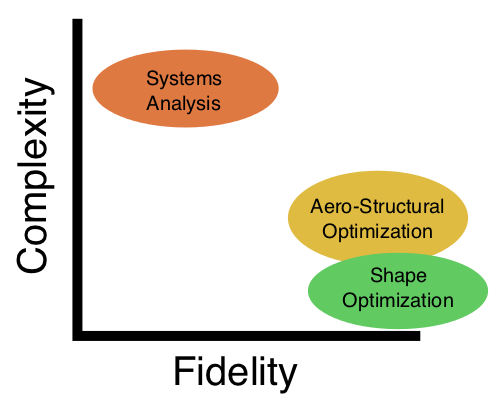
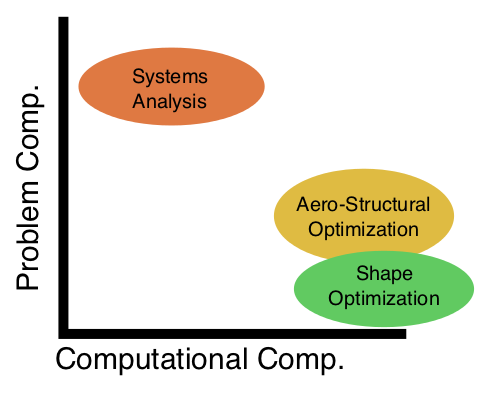
re-org

diff --git a/graph_framework.tex b/graph_framework.tex
@@ -86,21 +86,22 @@
     analytic derivatives for at the system level, even if each discipline could provide its own partial derivatives. So many
     problems are solved using a finite difference approach, which restricts the size of the design space.
 
-    If you placed complexity on the Y-axis and Fidelity on the X-axis, then the problem spectrum resemble the notional
-    cartoon in Figure \ref{fig:complexity_cartoon}. In this diagram, there is a gap between the lower and higher fidelity
-    type problems is indicative of the bifurcation in methods used to solve each type of problem currently. This gap begs the
-    question, ``How should you appraoch a problem of medium complexity and medium fidelity?'' We propose that the answer to this
-    dilemma is to develop a more general manner of implementing MDAO problems that can be applied to any problem across the entire
-    space of complexity and fidelity.
+    If you placed complexity of the problem formulation on the Y-axis and computational complexity on the X-axis, then 
+    the complexity spectrum resembles the cartoon in Figure \ref{fig:complexity_cartoon}. 
+    In this diagram, the gap along the 45 degree line between the axes is indicative of the bifurcation 
+    in methods used to solve each type of problem currently. This gap begs the
+    question, ``How should you appraoch a problem of medium complexity and medium fidelity?'' 
+    We propose that the answer to this dilemma is to develop a more general manner of 
+    implementing MDAO problems that can be applied to any problem across the entire complexity spectrum. 
 
     \begin{figure}[!hbt]\begin{center}
       \includegraphics[width=.5\textwidth]{images/complexity_cartoon}
-      \caption{ Notional spectrum of design problems currently being addressed. \label{fig:complexity_cartoon}}
+      \caption{ Notional spectrum of complexity in design problems currently being addressed. \label{fig:complexity_cartoon}}
     \end{center}\end{figure}
 
-    In this work we demonstrate how OpenMDAO, an open-source framework, such a general
-    solution to constructing and solving complex problems with large design spaces using the
-    same MDAO methods commonly applied to the the shape optimization and aero-structural optimization
+    In this work we demonstrate how OpenMDAO, an open-source framework, provides such a general
+    solution to constructing and solving problems from across the complexity spectrum with large design spaces 
+    using the same MDAO methods commonly applied to the the shape optimization and aero-structural optimization
     problems. OpenMDAO achieves this by providing three key features:
 
     \begin{enumerate}
@@ -109,24 +110,15 @@
       \item Efficient operation in a high performance computing environment with distributed data
     \end{enumerate}
 
-    \begin{comment}
-      \begin{enumerate}
-        \item Combining analytic derivatives with finite difference in a mixed derivatives environment
-        \item Efficient solving for the coupled derivatives at the system level
-        \item Assembly of the full gradient from the partial derivatives of each discipline
-        \item Flexbility via separation of problem formulation from solution strategy
-        \item Simple implementation for multi-point design problems
-      \end{enumerate}
-    \end{comment}
-
-    To demonstrate these capabilities, we present two different problems representing different levels of
-    complexity and fidelity, solved within the OpenMDAO framework. The fist problem is the design of a small
-    satellite platform for taking weather measurements in the thermosphere, called CADRE. The CADRE problem has a
-    complex problem formulation with XX disciplines and over 25000 design variables, but is lower fidelity and can
-    be run on a single processor. This problem demonstrates that OpenMDAO successfully bridges the gap shown
-    in Figure \ref{fig:complexity_cartoon}. The second problem is an aero-structural design of the Common Research
-    Model wing, using CFD and FEA. This problem shows that OpenMDAO can work with problems that demand higher fidelity
-    simulations with parallel communication and distributed data.
+    To demonstrate these capabilities, we present two different problem solved with 
+    the OpenMDAO framework. The fist problem is the design of a small satellite 
+    platform for taking weather measurements in the thermosphere, called CADRE. The CADRE problem has a
+    medium problem complexity with about 20 disciplines and also medium computational complexity. 
+    This problem demonstrates that OpenMDAO can efficiently solve problems with massive design spaced and 
+    medium complexity. The second problem is an aero-structural design of 
+    the Common Research Model wing, using CFD and FEA. This problem has very high computational 
+    complexity and shows that OpenMDAO can be used effectively on problems that use higher fidelity 
+    simulations, parallel execution, and distributed data. 
 
   \section{Dependency Graph}
 
@@ -145,7 +137,6 @@
     then discuss in detail how graph traversal algorithms are used to provide features. OpenMDAO relies
     on the NetworkX \cite{hagberg-2008-exploring} python package for implementation of each of
     the algorithms.
-
 
     \subsection{Graph Structure}
     The graph utilizes the structure proposed by
@@ -188,7 +179,10 @@
     used somewhere it is not correct to indicate a dependence on the entire chunk of data. So in this case, a
     single new node representing the sub-variable is created with its own dependence on the parent variable.
     This book keeping becomes particularly important for when the graph is used to calculate derivatives or
-    manage the partitioning of distributed data.
+    manage the partitioning of distributed data. Both problems contain large design spaces. The CADRE problem 
+    involves about 25000 design variables, and the aero-structural problem involves about 200. 
+    Together these problems demonstrate how OpenMDAO can simplify the process of implementing difficult 
+    design problems with large design spaces and varying kinds of complexity. 
 
 
     \subsection{Determining Execution Order}
@@ -232,7 +226,7 @@
     of variables and components depending on the structure of the graph. Hence, each linear solve step 
     is kept to its minimum possible size to keep. 
 
-    \section(Direct vs Adjoint Methods)
+    \section{Direct vs Adjoint Methods}
 
     OpenMDAO supports calculating derivatives in two ways: direct and adjoint. The direct method performs
     one linear solve for each design variable. The adjoint method performs one linear solve per each objective 
@@ -275,6 +269,8 @@
     To illustrate this: (figure)
     
   \section{CADRE Problem Formulation}
+
+  The CADRE problem represents a class of problems with medium complexity and medium fidelity. 
 
     \begin{align}
         \\\txt{max.} &\ \ \sum_{i=1}^6 D_i \notag
